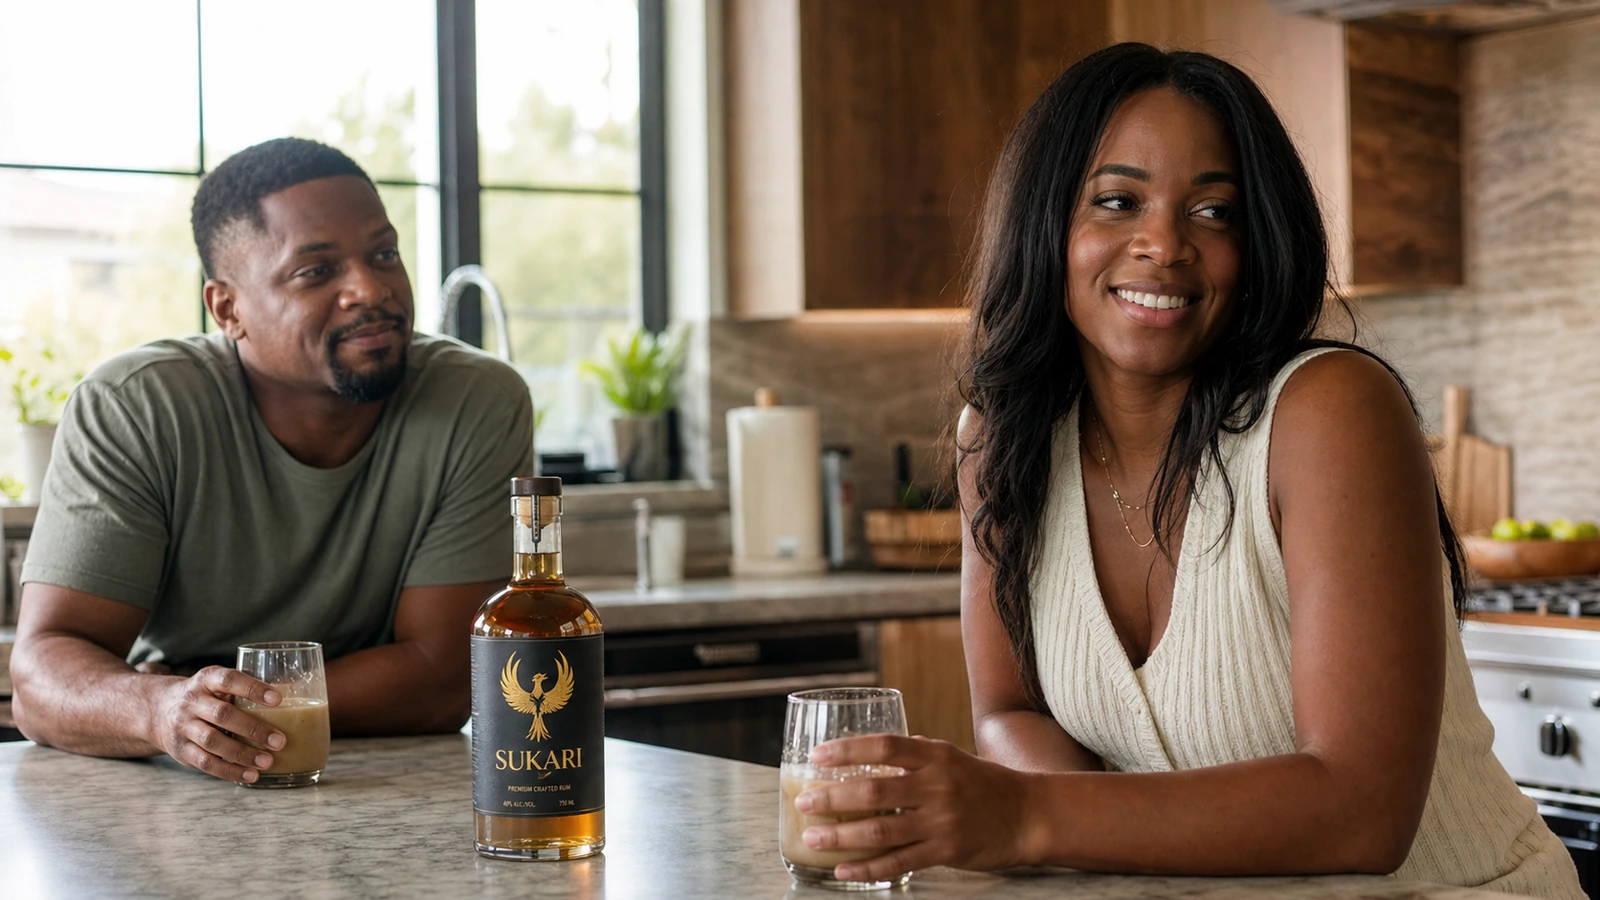
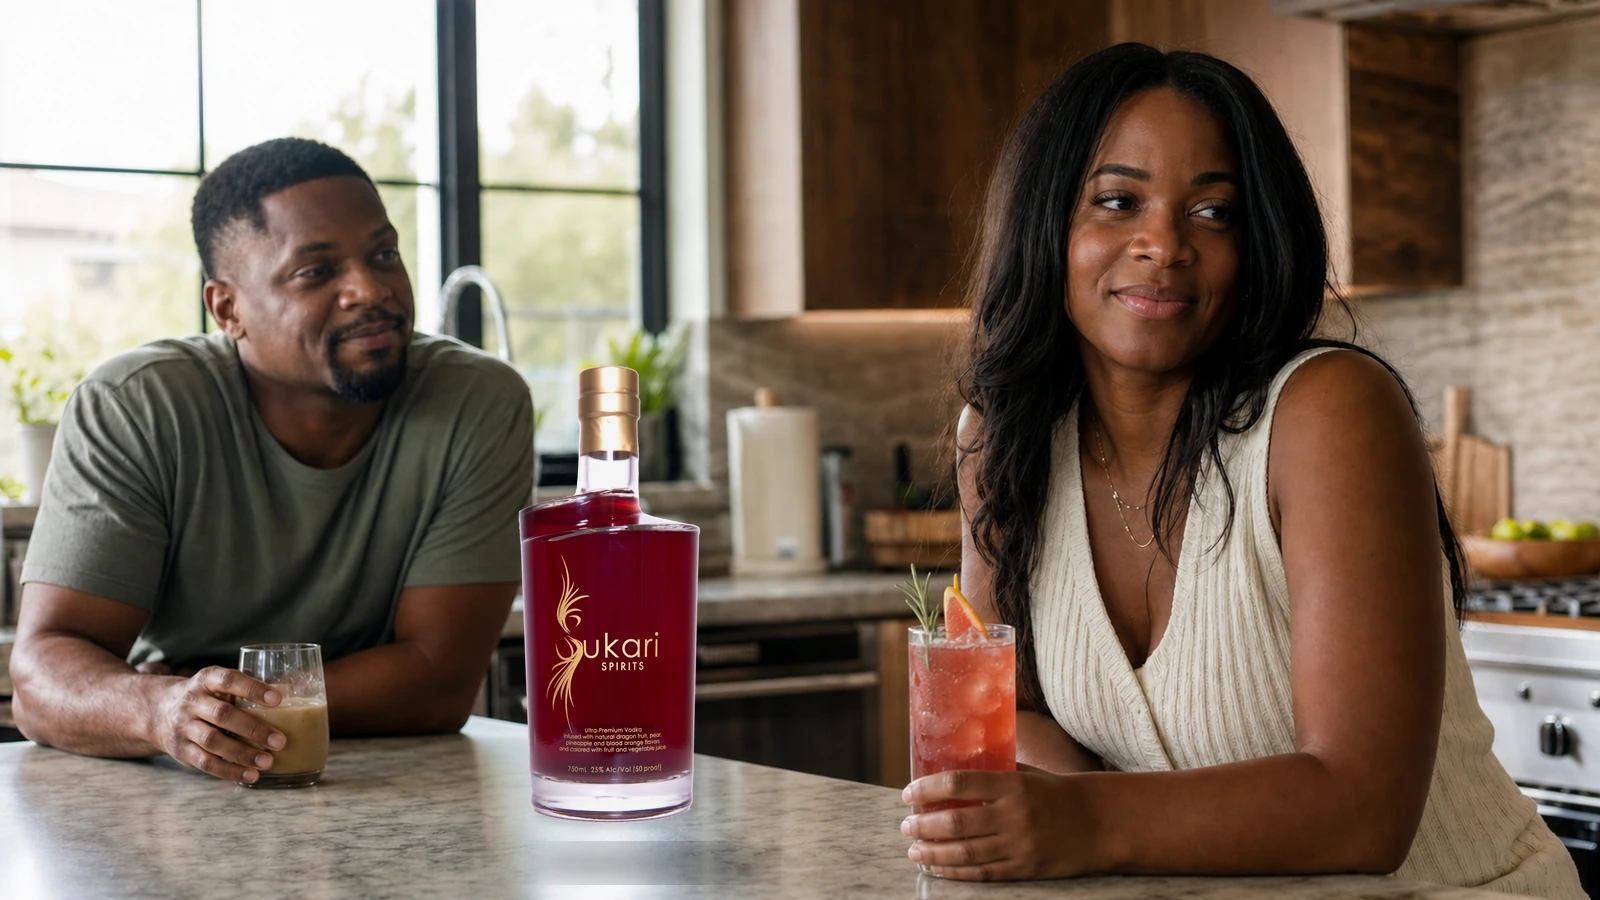
Home hero: add a single elegant woman's-figure curve (bust/waist/hip) on the right margin, clear of text

diff --git a/mockup1-home.html b/mockup1-home.html
@@ -402,6 +402,12 @@
 
 <!-- ===================== HERO · the bottle as a lit jewel ===================== -->
 <header class="hero" id="top">
+  <svg class="fig-curve" viewBox="0 0 460 740" preserveAspectRatio="xMidYMid meet" aria-hidden="true"><path d="M 213.5,30.0 L 214.6,36.0 L 215.9,42.0 L 217.5,48.0 L 219.5,54.0 L 221.7,60.0 L 224.4,66.0 L 227.3,72.0 L 230.6,78.0 L 234.2,84.0 L 237.9,90.0 L 241.9,96.0 L 245.9,102.0 L 249.8,108.0 L 253.5,114.0 L 257.0,120.0 L 259.9,126.0 L 262.4,132.0 L 264.1,138.0 L 265.1,144.0 L 265.3,150.0 L 264.7,156.0 L 263.2,162.0 L 260.9,168.0 L 257.9,174.0 L 254.2,180.0 L 249.9,186.0 L 245.2,192.0 L 240.1,198.0 L 234.7,204.0 L 229.1,210.0 L 223.4,216.0 L 217.8,222.0 L 212.1,228.0 L 206.6,234.0 L 201.3,240.0 L 196.2,246.0 L 191.3,252.0 L 186.7,258.0 L 182.5,264.0 L 178.7,270.0 L 175.4,276.0 L 172.6,282.0 L 170.3,288.0 L 168.8,294.0 L 167.8,300.0 L 167.7,306.0 L 168.2,312.0 L 169.6,318.0 L 171.7,324.0 L 174.5,330.0 L 178.1,336.0 L 182.3,342.0 L 187.1,348.0 L 192.5,354.0 L 198.4,360.0 L 204.6,366.0 L 211.2,372.0 L 218.0,378.0 L 225.0,384.0 L 232.1,390.0 L 239.1,396.0 L 246.0,402.0 L 252.8,408.0 L 259.3,414.0 L 265.4,420.0 L 271.1,426.0 L 276.3,432.0 L 280.9,438.0 L 284.8,444.0 L 288.1,450.0 L 290.5,456.0 L 292.2,462.0 L 293.1,468.0 L 293.1,474.0 L 292.3,480.0 L 290.7,486.0 L 288.4,492.0 L 285.4,498.0 L 281.8,504.0 L 277.7,510.0 L 273.1,516.0 L 268.2,522.0 L 262.9,528.0 L 257.6,534.0 L 252.1,540.0 L 246.6,546.0 L 241.2,552.0 L 235.9,558.0 L 230.8,564.0 L 226.0,570.0 L 221.6,576.0 L 217.4,582.0 L 213.7,588.0 L 210.4,594.0 L 207.5,600.0 L 205.1,606.0 L 203.2,612.0 L 201.6,618.0 L 200.5,624.0 L 199.8,630.0 L 199.5,636.0 L 199.5,642.0 L 199.8,648.0 L 200.2,654.0 L 200.9,660.0 L 201.6,666.0 L 202.5,672.0 L 203.4,678.0 L 204.2,684.0 L 205.1,690.0 L 205.8,696.0 L 206.6,702.0 L 207.2,708.0"/></svg>
+  <style>
+    .hero .fig-curve{position:absolute;right:3.5%;top:0;height:100%;width:clamp(150px,16vw,250px);z-index:0;pointer-events:none}
+    .hero .fig-curve path{fill:none;stroke:rgba(201,162,75,.55);stroke-width:1.8;vector-effect:non-scaling-stroke;stroke-dasharray:2200;stroke-dashoffset:2200;animation:figdraw 2.6s cubic-bezier(.5,0,.1,1) .4s forwards}
+    @keyframes figdraw{to{stroke-dashoffset:0}}
+  </style>
   <!-- THE SPINE: curved gold line sweeping past the bottle (signature element) -->
   <!-- soft gold radial glow lighting the bottle -->
   <div class="hero-glow" aria-hidden="true"></div>